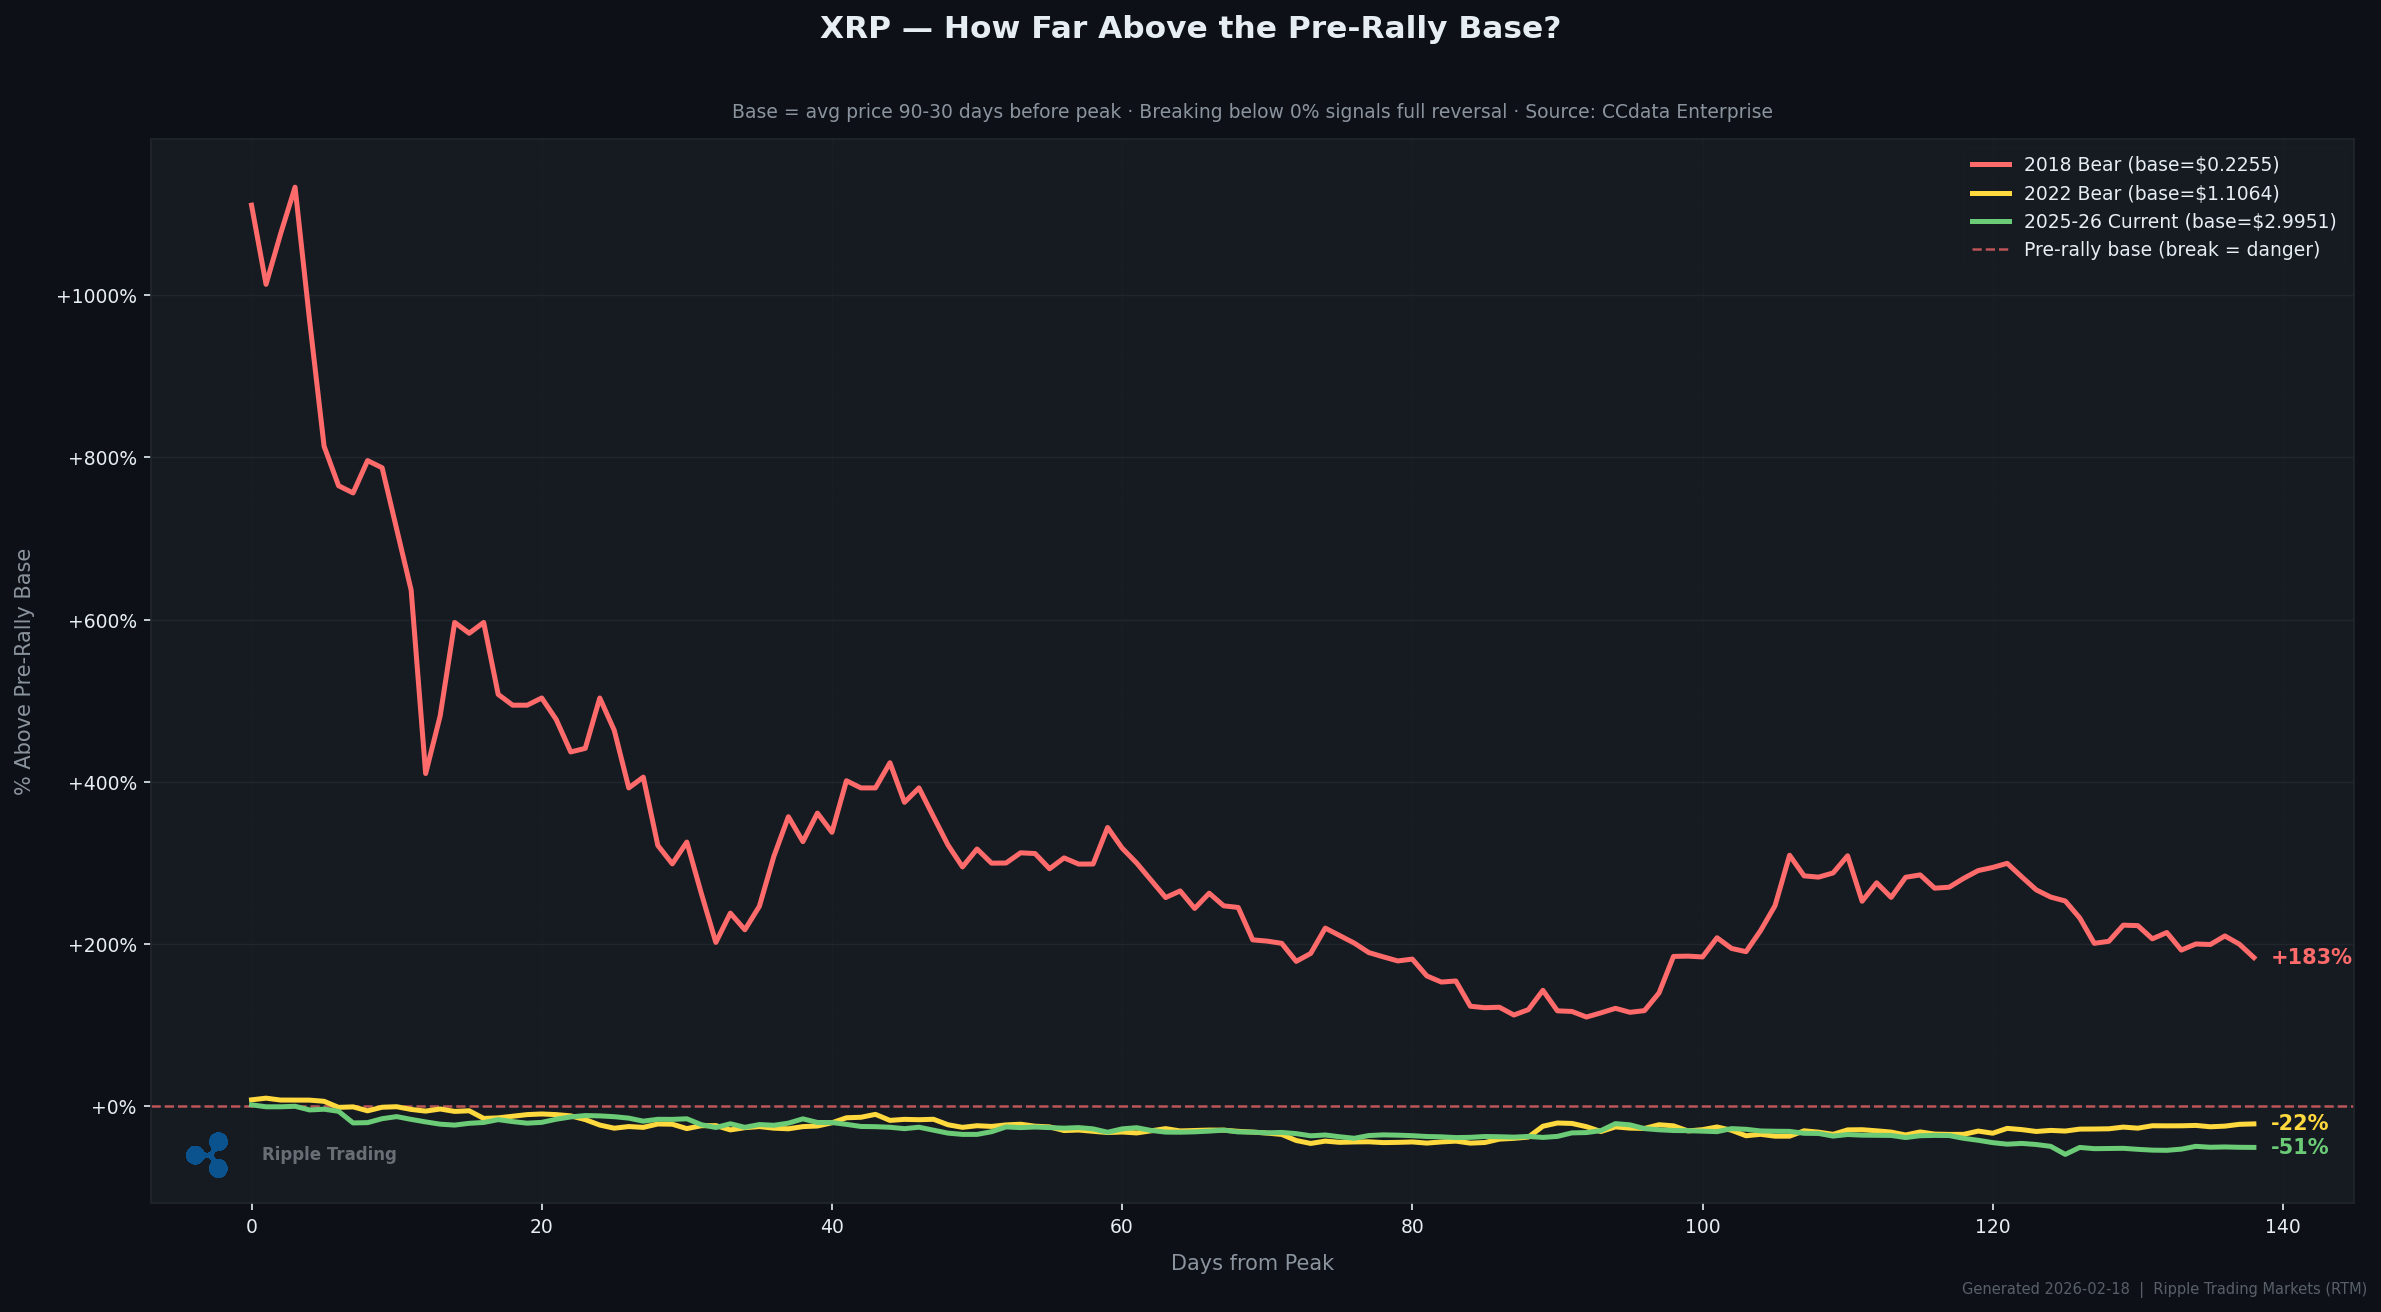
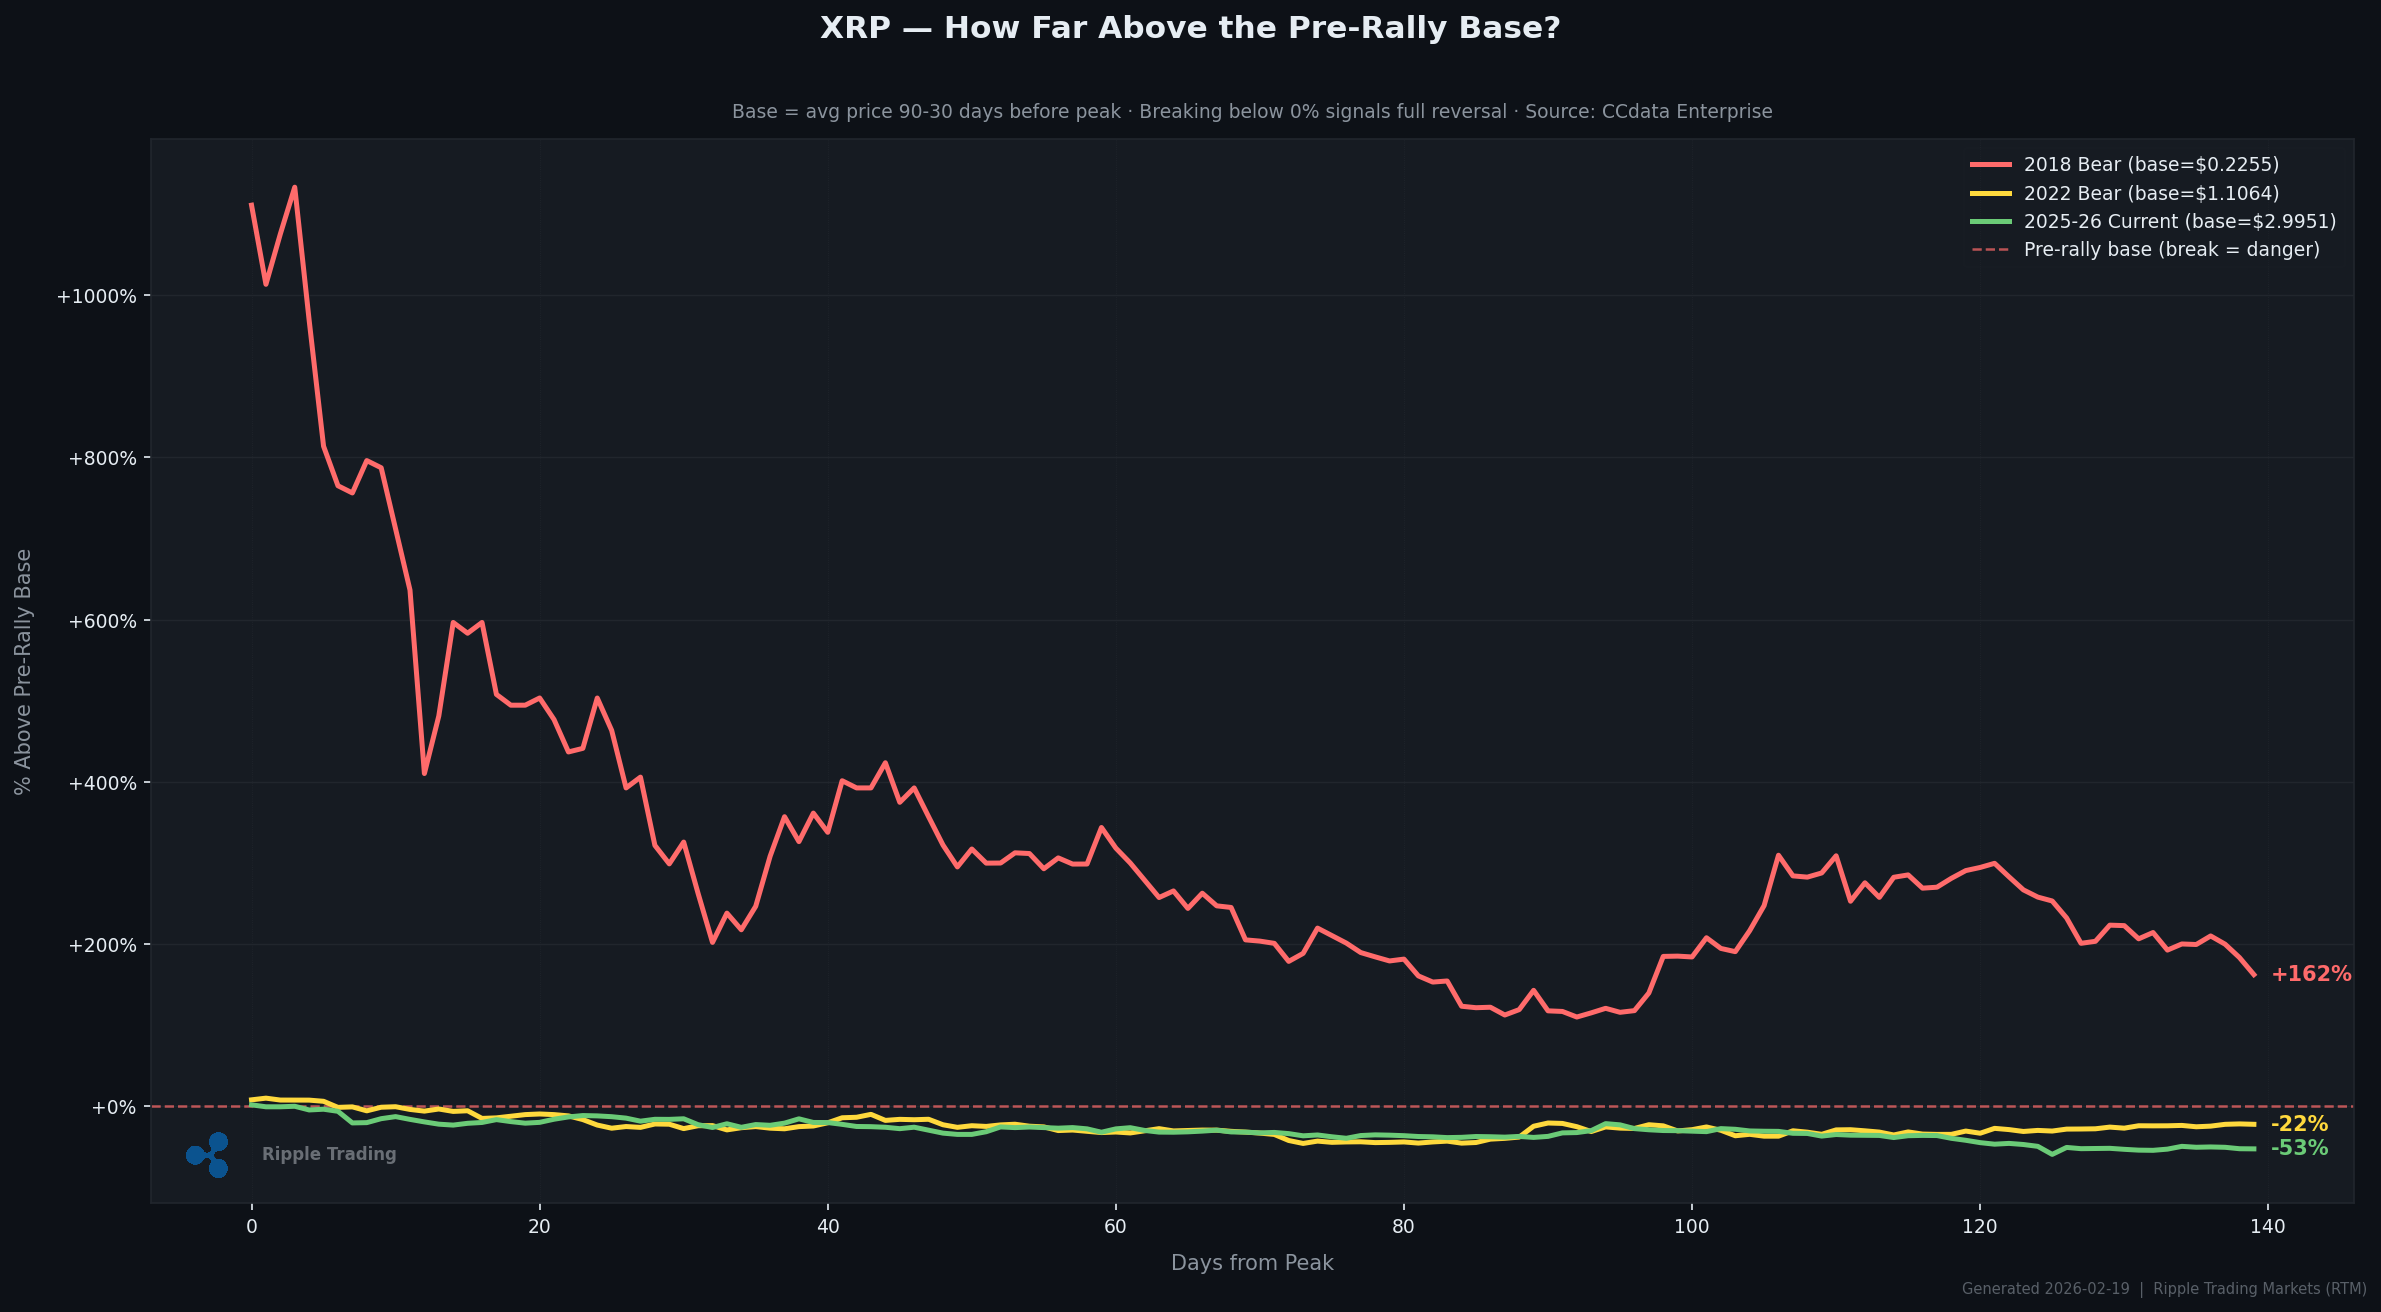
Refresh all Brad XRP charts with data through 2026-02-19
- Updated XRP/BTC/ETH price data from CCdata API
- Regenerated all 11 bear market and bull case charts
- Moved crypto performance & YTD scripts into Brad folder, fixed paths
- Updated MarketNewsFeed server and settings

diff --git a/APIs/Brad XRP Feb 2026/crypto_ytd_chart.py b/APIs/Brad XRP Feb 2026/crypto_ytd_chart.py
@@ -21,8 +21,8 @@ if sys.stdout.encoding != 'utf-8':
 
 # ── Paths ─────────────────────────────────────────────────────────────────────
 DIR         = os.path.dirname(__file__)
-STYLE_FILE  = os.path.join(DIR, "formatting", "chart_styling_RTM.json")
-LOGO_PATH   = os.path.join(DIR, "formatting", "ripple_corporate_triskelion.png")
+STYLE_FILE  = os.path.join(DIR, "..", "formatting", "chart_styling_RTM.json")
+LOGO_PATH   = os.path.join(DIR, "..", "formatting", "ripple_corporate_triskelion.png")
 
 # ── Load styling config ───────────────────────────────────────────────────────
 with open(STYLE_FILE) as f:
@@ -36,7 +36,7 @@ SUBTEXT  = S["colors"]["text_secondary"]
 COLOURS  = S["colors"]["assets"]
 
 # ── Load API key ──────────────────────────────────────────────────────────────
-load_dotenv(dotenv_path=os.path.join(DIR, ".env"))
+load_dotenv(dotenv_path=os.path.join(DIR, "..", ".env"))
 API_KEY = os.getenv("CCDATA_API_KEY")
 if not API_KEY:
     raise ValueError("CCDATA_API_KEY not found in .env")

diff --git a/APIs/Brad XRP Feb 2026/crypto_performance_chart.py b/APIs/Brad XRP Feb 2026/crypto_performance_chart.py
@@ -15,7 +15,7 @@ if sys.stdout.encoding != 'utf-8':
     sys.stdout.reconfigure(encoding='utf-8')
 
 # ── Load API key ──────────────────────────────────────────────────────────────
-load_dotenv(dotenv_path=os.path.join(os.path.dirname(__file__), ".env"))
+load_dotenv(dotenv_path=os.path.join(os.path.dirname(__file__), "..", ".env"))
 API_KEY = os.getenv("CCDATA_API_KEY")
 if not API_KEY:
     raise ValueError("CCDATA_API_KEY not found in .env")
